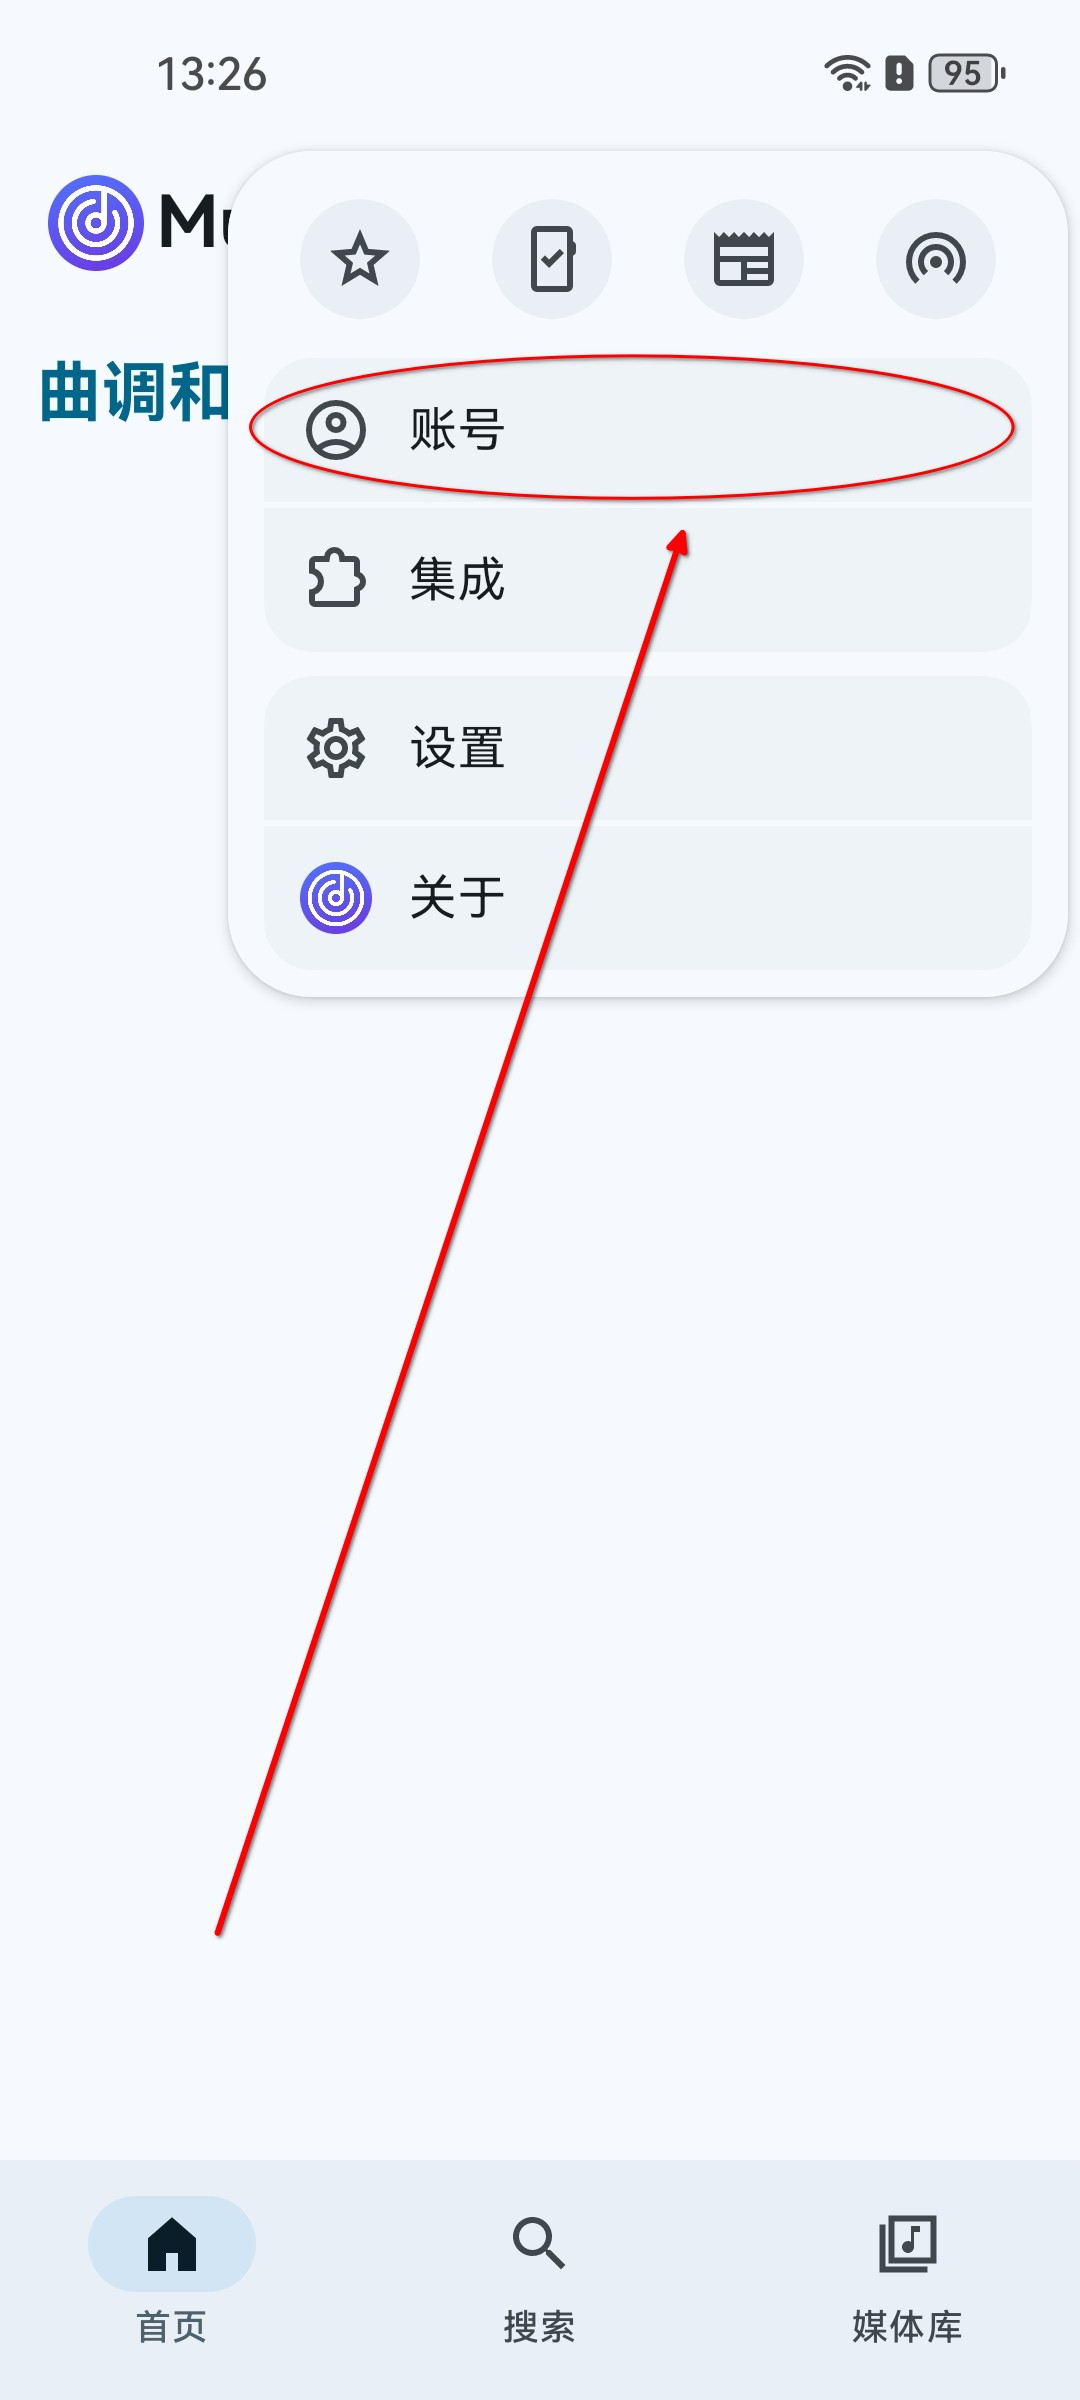
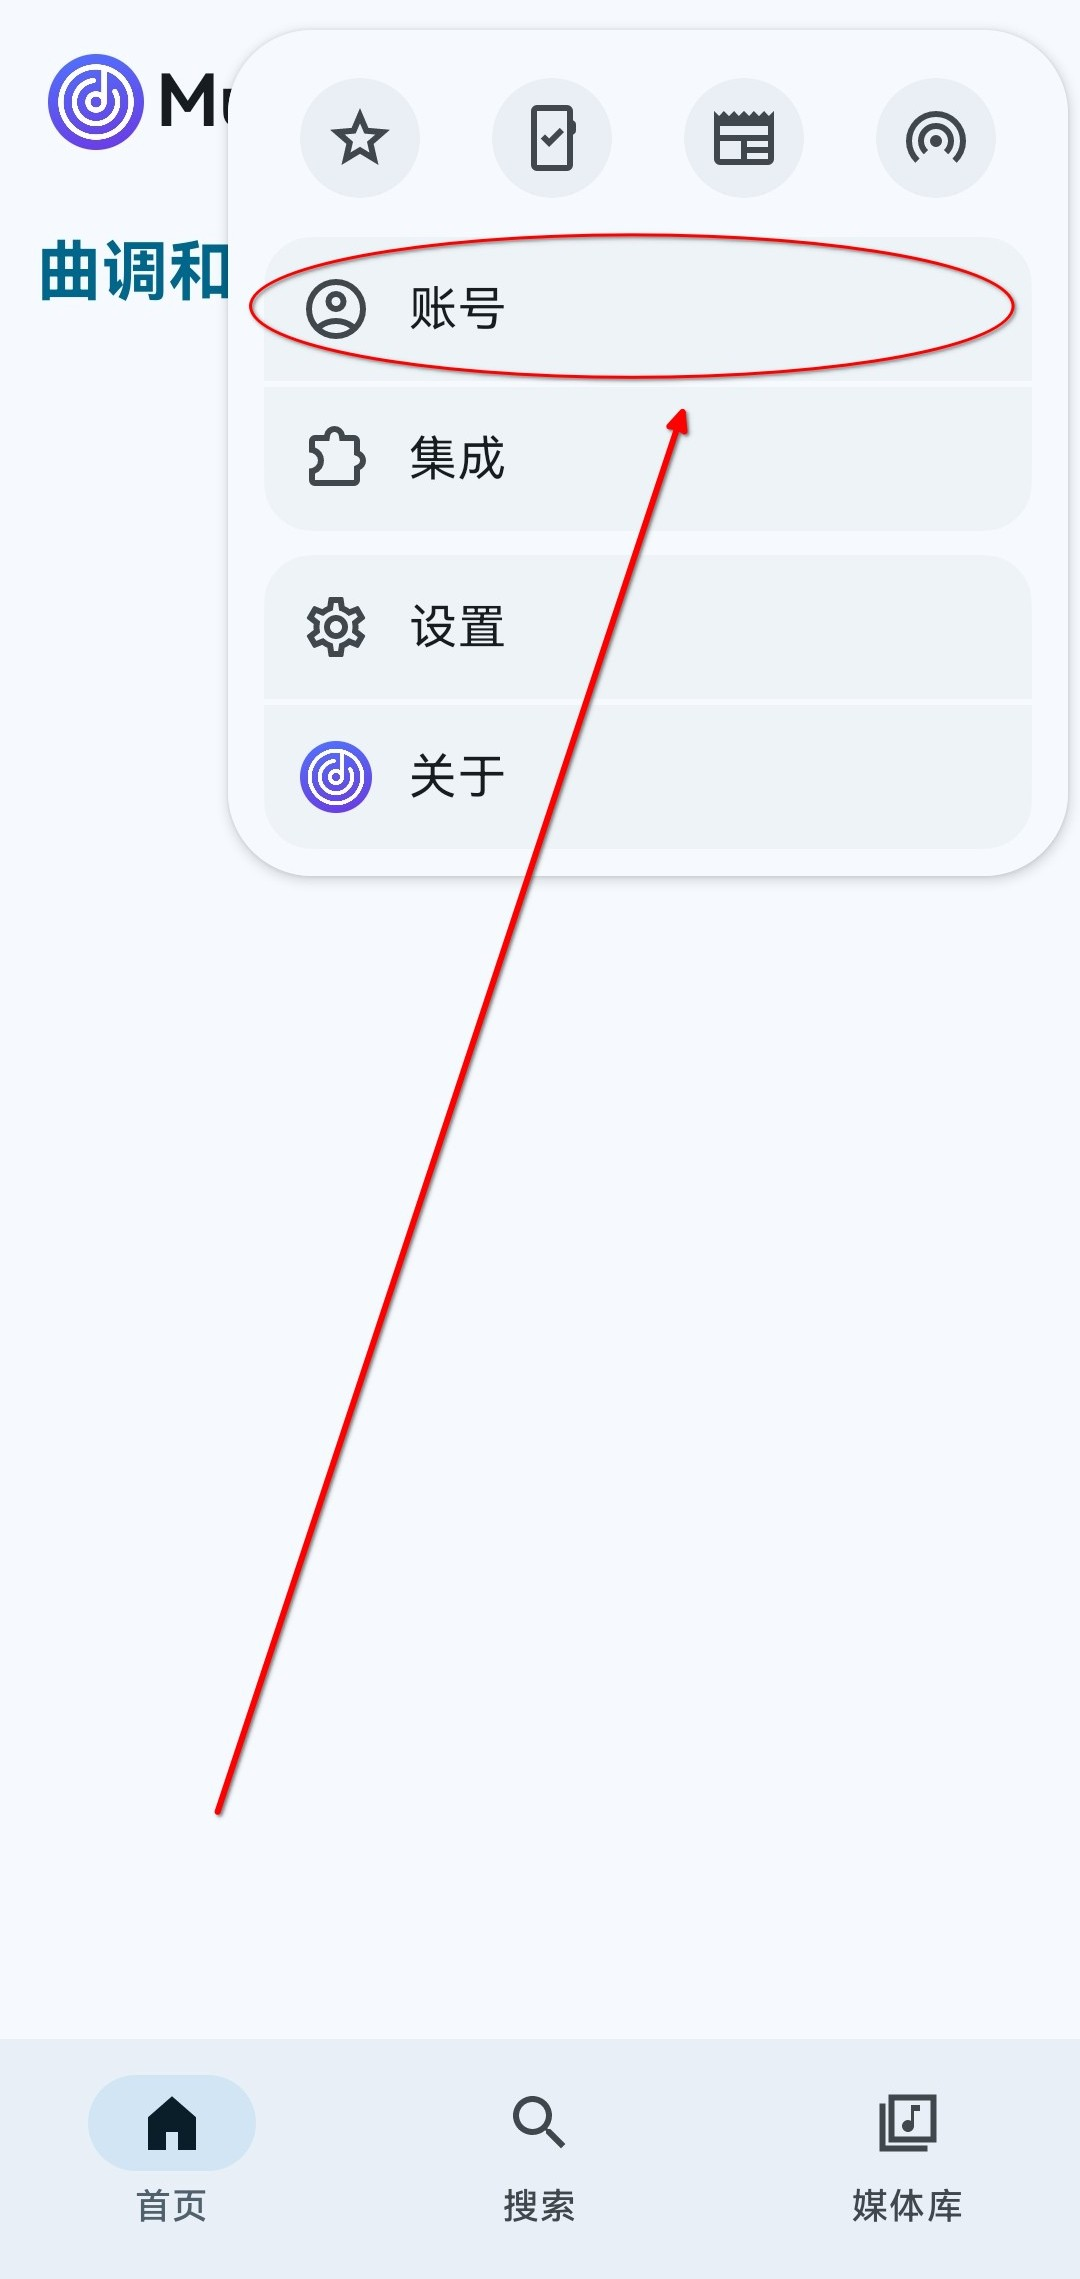
weekly2

diff --git a/content/posts/weekly2.md b/content/posts/weekly2.md
@@ -1,8 +1,48 @@
 +++
 date = '2026-10-24T13:39:02+08:00'
-draft = true
+draft = false
 title = '每周推荐2——地下说唱，落日飞车，以及成瘾物'
 tags = ["音乐","每周推荐","视频","电影"]
 categories = ["每周推荐"]
-image = "/images/ModalSoul.webp"
+image = "/images/bjung.jpg"
 +++
+## 音乐
+这次推荐两个歌单
+
+### 北京underground
+由于国内监管问题，这里使用的是youtube music，歌单链接：[https://music.youtube.com/playlist?list=PLUp2FYFjv7us&si=O36j-I-VPjpalnw9](https://music.youtube.com/playlist?list=PLUp2FYFjv7us&si=O36j-I-VPjpalnw9)
+推荐先从紫色封面的那张专辑开始听
+![](/images/ftw.jpg)
+听完之后就可以听听前面那张专
+![](/images/wtf.jpg)
+这是龙胆紫的两张专辑，作为我的说唱启蒙，我对其确实情有独钟
+接着往下听，接下来的两张专也是我很喜欢的，尤其是《趣味小常识》，完成度蛮高的，不过比较激进，可以放在后面听
+其他歌也很好，不过后两张专严格来说也不算北京underground了，不过还是很好的（作者都是龙胆紫成员）
+
+### 落日飞车
+网易云音乐歌单，链接[https://music.163.com/#/my/m/music/playlist?id=18507696532](https://music.163.com/#/my/m/music/playlist?id=18507696532)
+里面有几首单曲，和一张专辑
+这张专辑是我第一次听到落日飞车时听的专辑
+我很喜欢，希望你也喜欢
+
+## 视频
+
+### 你能24小时战斗吗？
+
+{{< bilibili "BV1gv3b6wERF" >}}
+
+资本主义先遣服这一块
+
+### 加油站买的这种“药”，差点毁了我的人生
+
+{{< bilibili "BV12M7B6AEiR" >}}
+
+既然我曾谈到OD，那么肯定绕不开一些利弊对吧
+
+## 电影
+
+### 一一
+
+{{< bilibili "BV18z411B7mb" >}}
+
+猜你想看：《第七天》——余华
